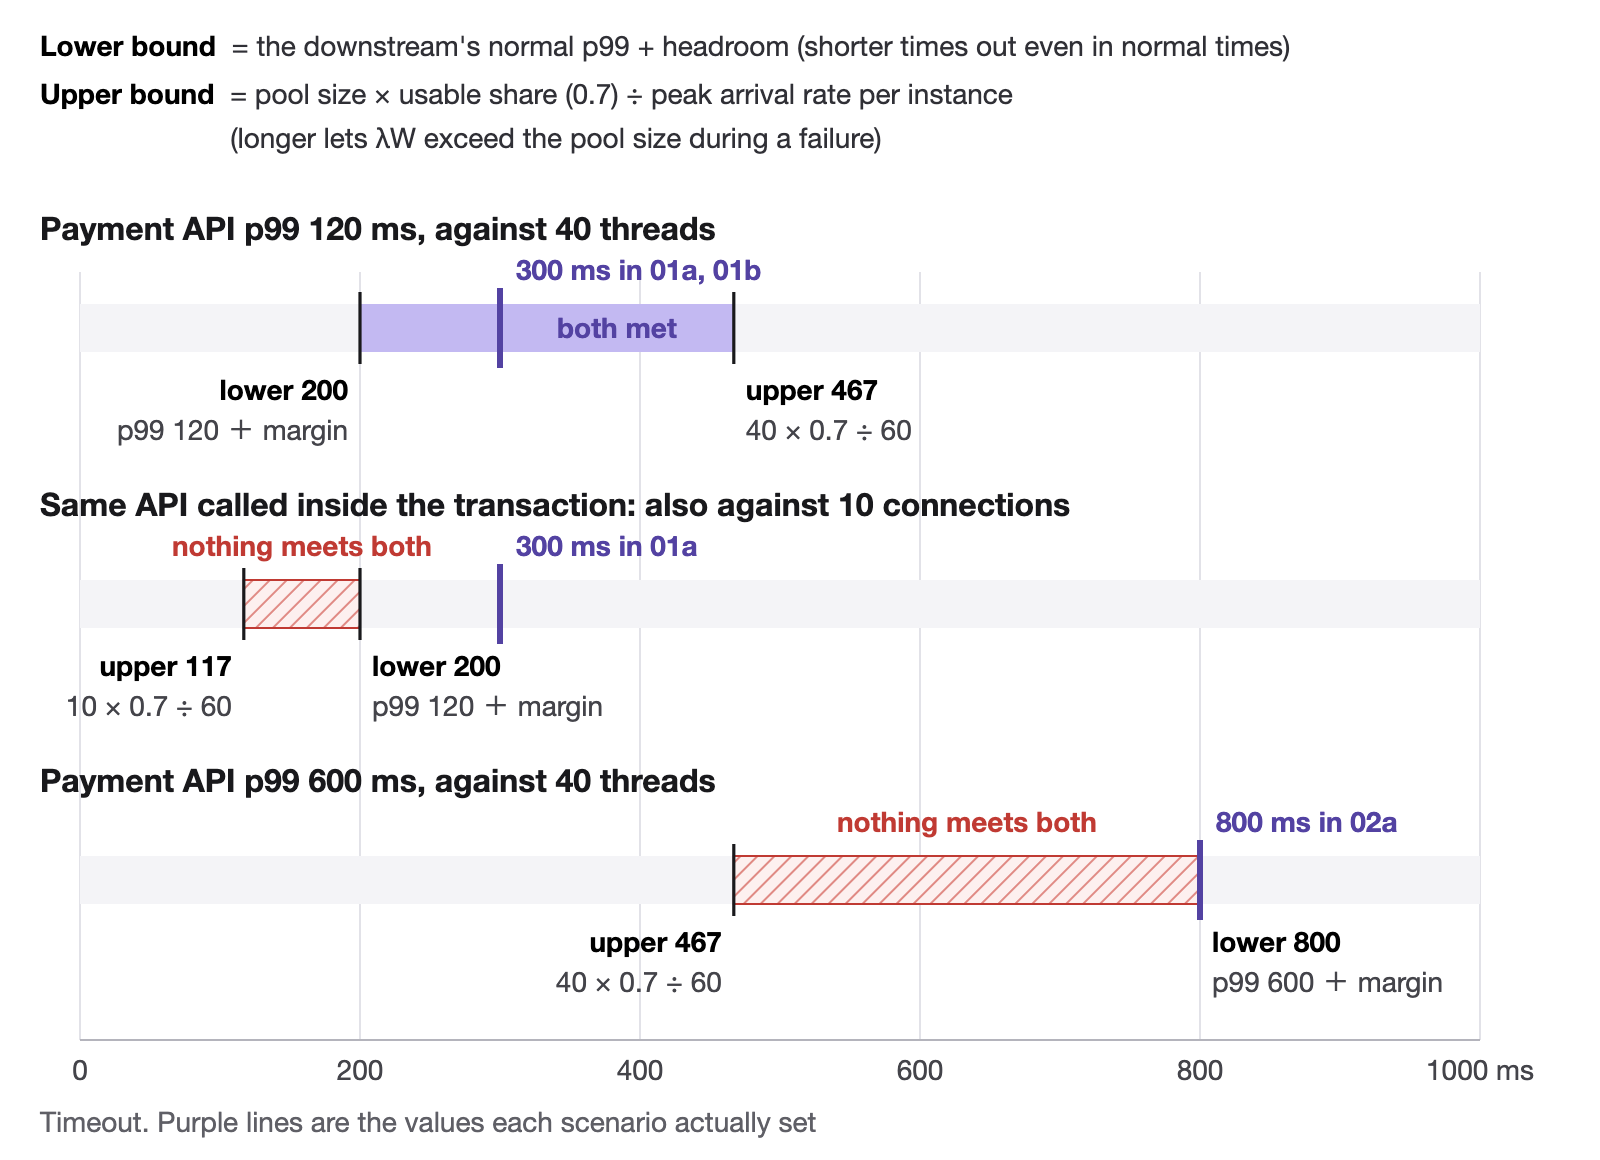
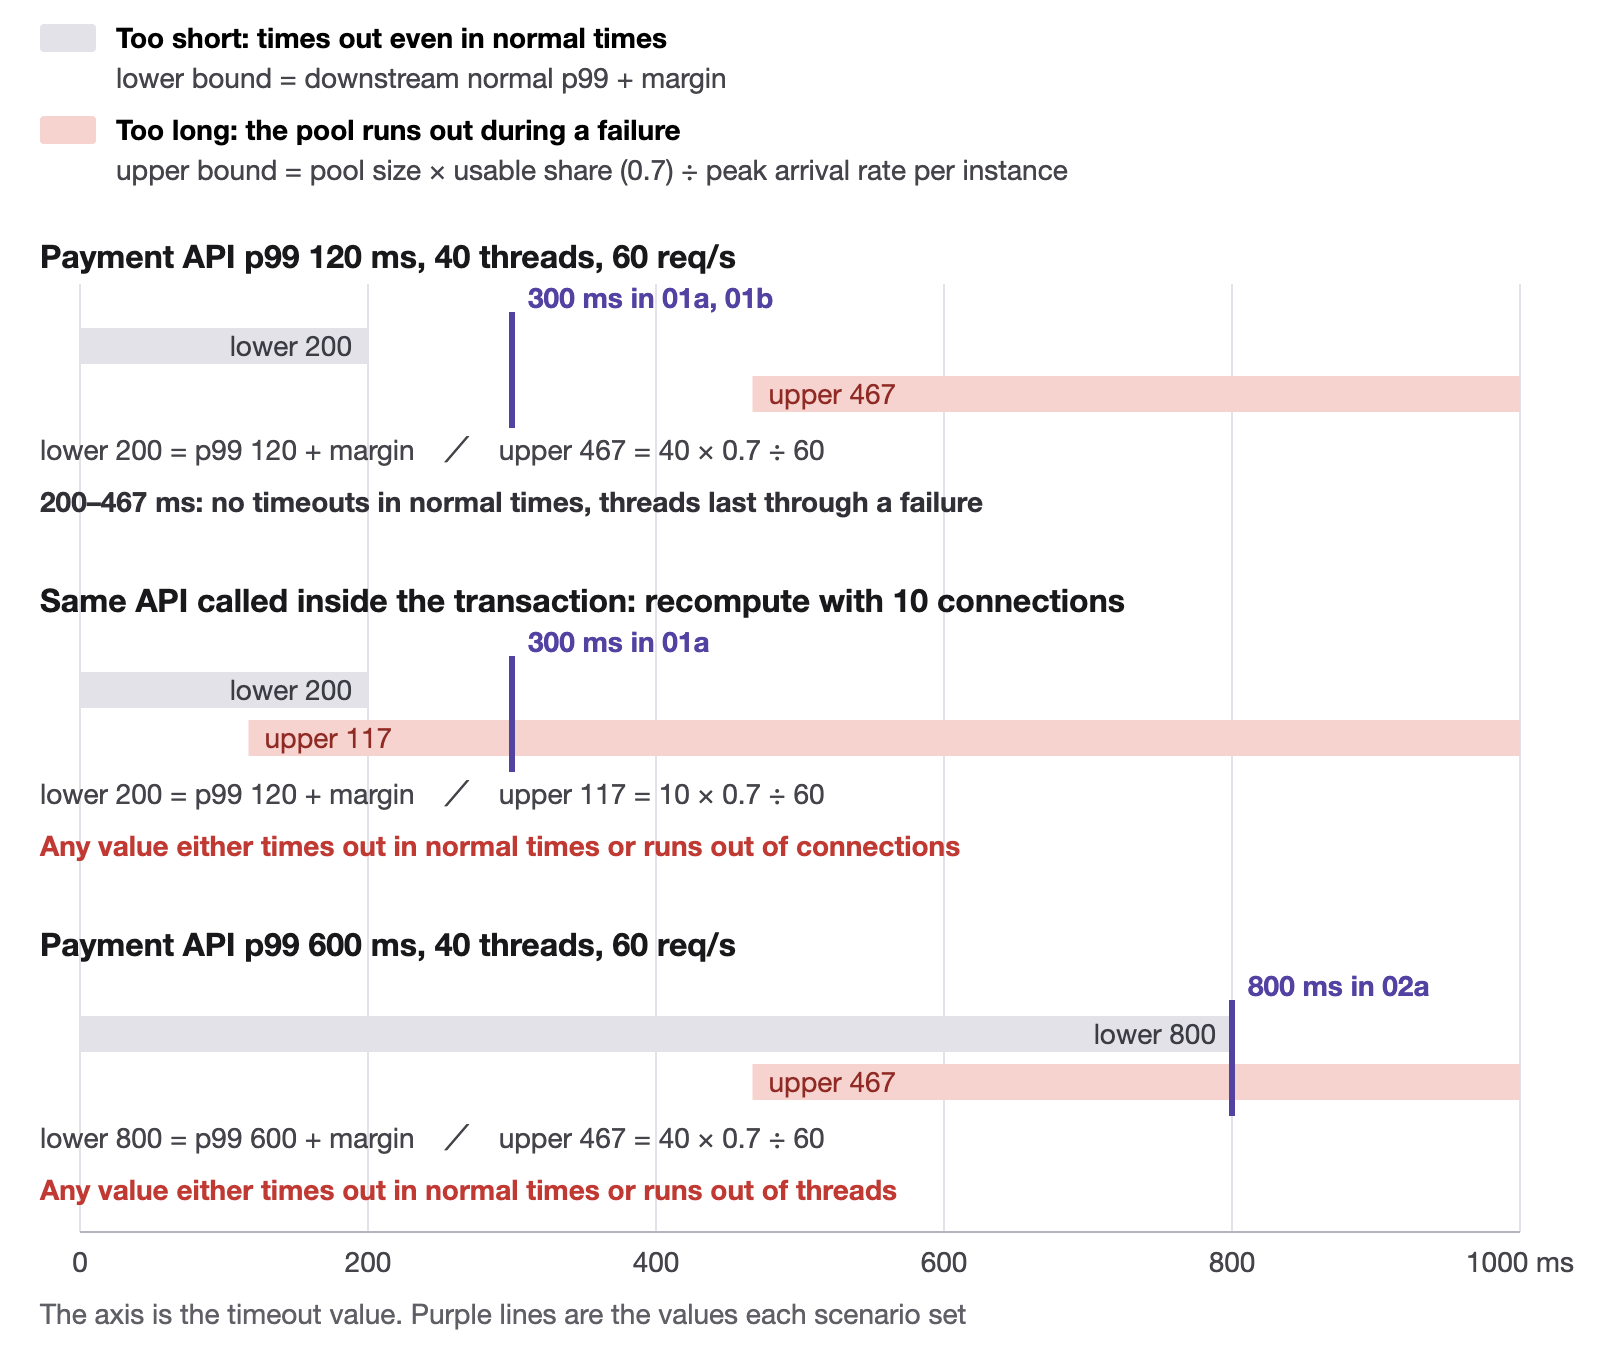
Timeout figure: two stripes that say what happens instead of 'nothing satisfies both'
Each row now draws one stripe for timeouts too short (they time out
even in normal times) and one for timeouts too long (the pool runs out
during a failure). A gap between them is where the timeout can go; when
they overlap, any value hits one of the two. The verdict under each row
names those outcomes, and the article does the same wherever it said
'nothing satisfies both'.

diff --git a/tools/diagrams/timeout-window.html b/tools/diagrams/timeout-window.html
@@ -4,69 +4,97 @@
 <meta charset="utf-8">
 <title>Timeout window</title>
 <link rel="stylesheet" href="explainer.css">
+<style>
+  .z-short { fill: #e2e2e8; }
+  .z-long { fill: #f6d3cf; }
+  .t-short { font-size: 14px; fill: #3c3c44; }
+  .t-long { font-size: 14px; fill: #8f2a24; }
+</style>
 </head>
 <body>
-<!-- 決済 API のタイムアウトの下限と上限。下限は平常時の p99 に上乗せした値、上限はプールの大きさ × 0.7 ÷ ピーク時の到着率。上の段は両方を満たす値がある形、下の 2 段は下限が上限を超えて両方を満たす値がない形 -->
+<!-- 決済 API のタイムアウトの下限と上限。段ごとに帯を 2 本引く。上の帯は、短すぎて平常時にもタイムアウトする長さ（0〜下限）。下の帯は、長すぎて障害時にプールが尽きる長さ（上限〜）。帯のあいだに隙間があれば、そこから選べる。帯が重なれば、どの値でもどちらかが起きる -->
 <svg id="fig" xmlns="http://www.w3.org/2000/svg"></svg>
 <script src="explainer.js"></script>
 <script>
   const svg = document.getElementById('fig');
   defs(svg);
-  const LX = 20, AX = 40, S = 0.7;
+  const LX = 20, AX = 40, S = 0.72;
   const X = (ms) => AX + ms * S;
+  const MAX = 1000;
 
-  // 式の凡例
-  let lx = text(svg, LX, 28, 'lbl', tr('下限', 'Lower bound'));
-  text(svg, lx + 8, 28, 'body', tr('＝ 下流の平常時の p99 ＋ 上乗せ（これより短いと、平常時にもタイムアウトする）', '= the downstream\'s normal p99 + headroom (shorter times out even in normal times)'));
-  lx = text(svg, LX, 52, 'lbl', tr('上限', 'Upper bound'));
-  text(svg, lx + 8, 52, 'body', tr('＝ プールの大きさ × 使ってよい割合（0.7）÷ 1 台あたりのピーク時の到着率', '= pool size × usable share (0.7) ÷ peak arrival rate per instance'));
-  text(svg, lx + 8, 74, 'body', tr('（これより長いと、障害時に λW がプールの大きさを超える）', '(longer lets λW exceed the pool size during a failure)'));
-
-  const TOP = 106, LANE = 138, BH = 24;
-  const lanes = [
-    { head: tr('決済 API の p99 が 120ms、スレッド 40 本で考える', 'Payment API p99 120 ms, against 40 threads'), lower: [200, 'p99 120 ＋ ' + tr('上乗せ', 'margin')], upper: [467, '40 × 0.7 ÷ 60'], pick: [300, tr('01a・01b の 300ms', '300 ms in 01a, 01b')] },
-    { head: tr('同じ決済 API をトランザクションの中で呼ぶと、コネクション 10 本でも考える', 'Same API called inside the transaction: also against 10 connections'), lower: [200, 'p99 120 ＋ ' + tr('上乗せ', 'margin')], upper: [117, '10 × 0.7 ÷ 60'], pick: [300, tr('01a の 300ms', '300 ms in 01a')] },
-    { head: tr('決済 API の p99 が 600ms、スレッド 40 本で考える', 'Payment API p99 600 ms, against 40 threads'), lower: [800, 'p99 600 ＋ ' + tr('上乗せ', 'margin')], upper: [467, '40 × 0.7 ÷ 60'], pick: [800, tr('02a の 800ms', '800 ms in 02a')] },
+  // 凡例：帯の色と、その長さだと何が起きるか、境目の式
+  const legend = [
+    ['z-short', tr('短すぎる：平常時にもタイムアウトする', 'Too short: times out even in normal times'), tr('下限 ＝ 下流の平常時の p99 ＋ 上乗せ', 'lower bound = downstream normal p99 + margin')],
+    ['z-long', tr('長すぎる：障害時にプールが尽きる', 'Too long: the pool runs out during a failure'), tr('上限 ＝ プールの大きさ × 使ってよい割合（0.7）÷ 1 台あたりのピーク時の到着率', 'upper bound = pool size × usable share (0.7) ÷ peak arrival rate per instance')],
   ];
-  const END = TOP + lanes.length * LANE;
+  legend.forEach(([cls, what, formula], i) => {
+    const y = 24 + i * 46;
+    el(svg, 'rect', { class: cls, x: LX, y: y - 12, width: 28, height: 14, rx: 2 });
+    text(svg, LX + 38, y, 'lbl', what);
+    text(svg, LX + 38, y + 20, 'small', formula);
+  });
+
+  const TOP = 120, LANE = 172, SH = 18, GAP = 6;
+  const lanes = [
+    { head: tr('決済 API の p99 が 120ms、スレッド 40 本、到着 60 件/秒', 'Payment API p99 120 ms, 40 threads, 60 req/s'),
+      lower: [200, tr('下限 200 ＝ p99 120 ＋ 上乗せ', 'lower 200 = p99 120 + margin')],
+      upper: [467, tr('上限 467 ＝ 40 × 0.7 ÷ 60', 'upper 467 = 40 × 0.7 ÷ 60')],
+      pick: [300, tr('01a・01b の 300ms', '300 ms in 01a, 01b')],
+      verdict: tr('200〜467ms なら、平常時にタイムアウトせず、障害時にもスレッドが尽きない', '200–467 ms: no timeouts in normal times, threads last through a failure'), ok: true },
+    { head: tr('同じ決済 API をトランザクションの中で呼ぶ：コネクション 10 本で計算し直す', 'Same API called inside the transaction: recompute with 10 connections'),
+      lower: [200, tr('下限 200 ＝ p99 120 ＋ 上乗せ', 'lower 200 = p99 120 + margin')],
+      upper: [117, tr('上限 117 ＝ 10 × 0.7 ÷ 60', 'upper 117 = 10 × 0.7 ÷ 60')],
+      pick: [300, tr('01a の 300ms', '300 ms in 01a')],
+      verdict: tr('どの値にしても、平常時にタイムアウトするか、障害時にコネクションが尽きる', 'Any value either times out in normal times or runs out of connections'), ok: false },
+    { head: tr('決済 API の p99 が 600ms、スレッド 40 本、到着 60 件/秒', 'Payment API p99 600 ms, 40 threads, 60 req/s'),
+      lower: [800, tr('下限 800 ＝ p99 600 ＋ 上乗せ', 'lower 800 = p99 600 + margin')],
+      upper: [467, tr('上限 467 ＝ 40 × 0.7 ÷ 60', 'upper 467 = 40 × 0.7 ÷ 60')],
+      pick: [800, tr('02a の 800ms', '800 ms in 02a')],
+      verdict: tr('どの値にしても、平常時にタイムアウトするか、障害時にスレッドが尽きる', 'Any value either times out in normal times or runs out of threads'), ok: false },
+  ];
+  const END = TOP + lanes.length * LANE - 20;
 
   // 目盛りの縦線（段をまたいで値をそろえて読めるように）
-  for (let ms = 0; ms <= 1000; ms += 200) el(svg, 'line', { class: 'row-grid', x1: X(ms), y1: TOP + 30, x2: X(ms), y2: END });
+  for (let ms = 0; ms <= MAX; ms += 200) el(svg, 'line', { class: 'row-grid', x1: X(ms), y1: TOP + 22, x2: X(ms), y2: END });
 
-  lanes.forEach(({ head, lower, upper, pick }, i) => {
+  /** 帯の中か外に、境目の式を書く。入りきらなければ外に出す */
+  function stripeLabel(x0, x1, y, s, cls, side) {
+    const t = el(svg, 'text', { x: 0, y, class: cls }, s);
+    const w = t.getComputedTextLength();
+    svg.removeChild(t);
+    if (x1 - x0 >= w + 16) {
+      if (side === 'end') text(svg, x1 - 8, y, `${cls} end`, s);
+      else text(svg, x0 + 8, y, cls, s);
+    } else if (side === 'end') {
+      text(svg, x1 + 8, y, cls, s);
+    } else {
+      text(svg, x0 - 8, y, `${cls} end`, s);
+    }
+  }
+
+  lanes.forEach(({ head, lower, upper, pick, verdict, ok }, i) => {
     const y = TOP + i * LANE;
     text(svg, LX, y + 14, 'hl', head);
-    const by = y + 46;
-    el(svg, 'rect', { x: X(0), y: by, width: X(1000) - X(0), height: BH, fill: '#f4f4f7' });
-    const [lo, hi] = [lower[0], upper[0]];
-    if (lo < hi) {
-      el(svg, 'rect', { class: 'f-ord-wait', x: X(lo), y: by, width: X(hi) - X(lo), height: BH });
-    } else {
-      el(svg, 'rect', { class: 'over', x: X(hi), y: by, width: X(lo) - X(hi), height: BH });
-    }
-    // 下限と上限：線と、あいだ（または隙間）の外向きに名前と式
-    const left = Math.min(lo, hi) === lo ? 'lower' : 'upper';
-    for (const [kind, [ms, formula]] of [['lower', lower], ['upper', upper]]) {
-      el(svg, 'line', { x1: X(ms), y1: by - 6, x2: X(ms), y2: by + BH + 6, stroke: '#19191c', 'stroke-width': 1.6 });
-      const name = kind === 'lower' ? tr(`下限 ${ms}`, `lower ${ms}`) : tr(`上限 ${ms}`, `upper ${ms}`);
-      const out = kind === left ? -6 : 6;
-      const cls = out < 0 ? ' end' : '';
-      text(svg, X(ms) + out, by + BH + 24, `lbl${cls}`, name);
-      text(svg, X(ms) + out, by + BH + 44, `small${cls}`, formula);
-    }
+    const ys = y + 44, yl = ys + SH + GAP;
+    // 上の帯：0〜下限（短すぎる）。下の帯：上限〜（長すぎる）
+    el(svg, 'rect', { class: 'z-short', x: X(0), y: ys, width: X(lower[0]) - X(0), height: SH });
+    el(svg, 'rect', { class: 'z-long', x: X(upper[0]), y: yl, width: X(MAX) - X(upper[0]), height: SH });
+    // 帯の中には境目の値だけを書き、式は帯の下の 1 行にまとめる（選んだ値の線と重ねない）
+    stripeLabel(X(0), X(lower[0]), ys + 14, tr(`下限 ${lower[0]}`, `lower ${lower[0]}`), 't-short', 'end');
+    stripeLabel(X(upper[0]), X(MAX), yl + 14, tr(`上限 ${upper[0]}`, `upper ${upper[0]}`), 't-long', 'start');
+    text(svg, LX, yl + SH + 24, 'small', `${lower[1]}　／　${upper[1]}`);
     // 実験で選んだ値
     const [p, label] = pick;
-    el(svg, 'line', { x1: X(p), y1: by - 8, x2: X(p), y2: by + BH + 8, stroke: '#5342a2', 'stroke-width': 3 });
-    text(svg, X(p) + 8, by - 12, 'small ord b', label);
-    // 両方を満たすあいだ（選んだ値の線を避ける）か、隙間の上に結論
-    if (lo < hi) text(svg, (X(p) + X(hi)) / 2, by + 17, 'lbl ord mid', tr('両方を満たす', 'both met'));
-    else text(svg, (X(lo) + X(hi)) / 2, by - 12, 'lbl bad mid', tr('両方を満たす値がない', 'nothing meets both'));
+    el(svg, 'line', { x1: X(p), y1: ys - 8, x2: X(p), y2: yl + SH + 8, stroke: '#5342a2', 'stroke-width': 3 });
+    text(svg, X(p) + 8, ys - 10, 'small ord b', label);
+    // 結論：起きることを、そのまま書く
+    text(svg, LX, yl + SH + 50, ok ? 'body b' : 'body b bad', verdict);
   });
 
   // 共通の目盛り
-  el(svg, 'line', { class: 'axis', x1: X(0), y1: END, x2: X(1000), y2: END });
-  for (let ms = 0; ms <= 1000; ms += 200) text(svg, X(ms), END + 20, 'small mid', ms === 1000 ? '1000 ms' : String(ms));
-  text(svg, LX, END + 46, 'note', tr('タイムアウト。紫の線は、各シナリオで実際に設定した値', 'Timeout. Purple lines are the values each scenario actually set'));
+  el(svg, 'line', { class: 'axis', x1: X(0), y1: END, x2: X(MAX), y2: END });
+  for (let ms = 0; ms <= MAX; ms += 200) text(svg, X(ms), END + 20, 'small mid', ms === MAX ? '1000 ms' : String(ms));
+  text(svg, LX, END + 46, 'note', tr('横軸はタイムアウトの値。紫の線は、各シナリオで実際に設定した値', 'The axis is the timeout value. Purple lines are the values each scenario set'));
   canvas(svg, 800, END + 60);
 </script>
 </body>
